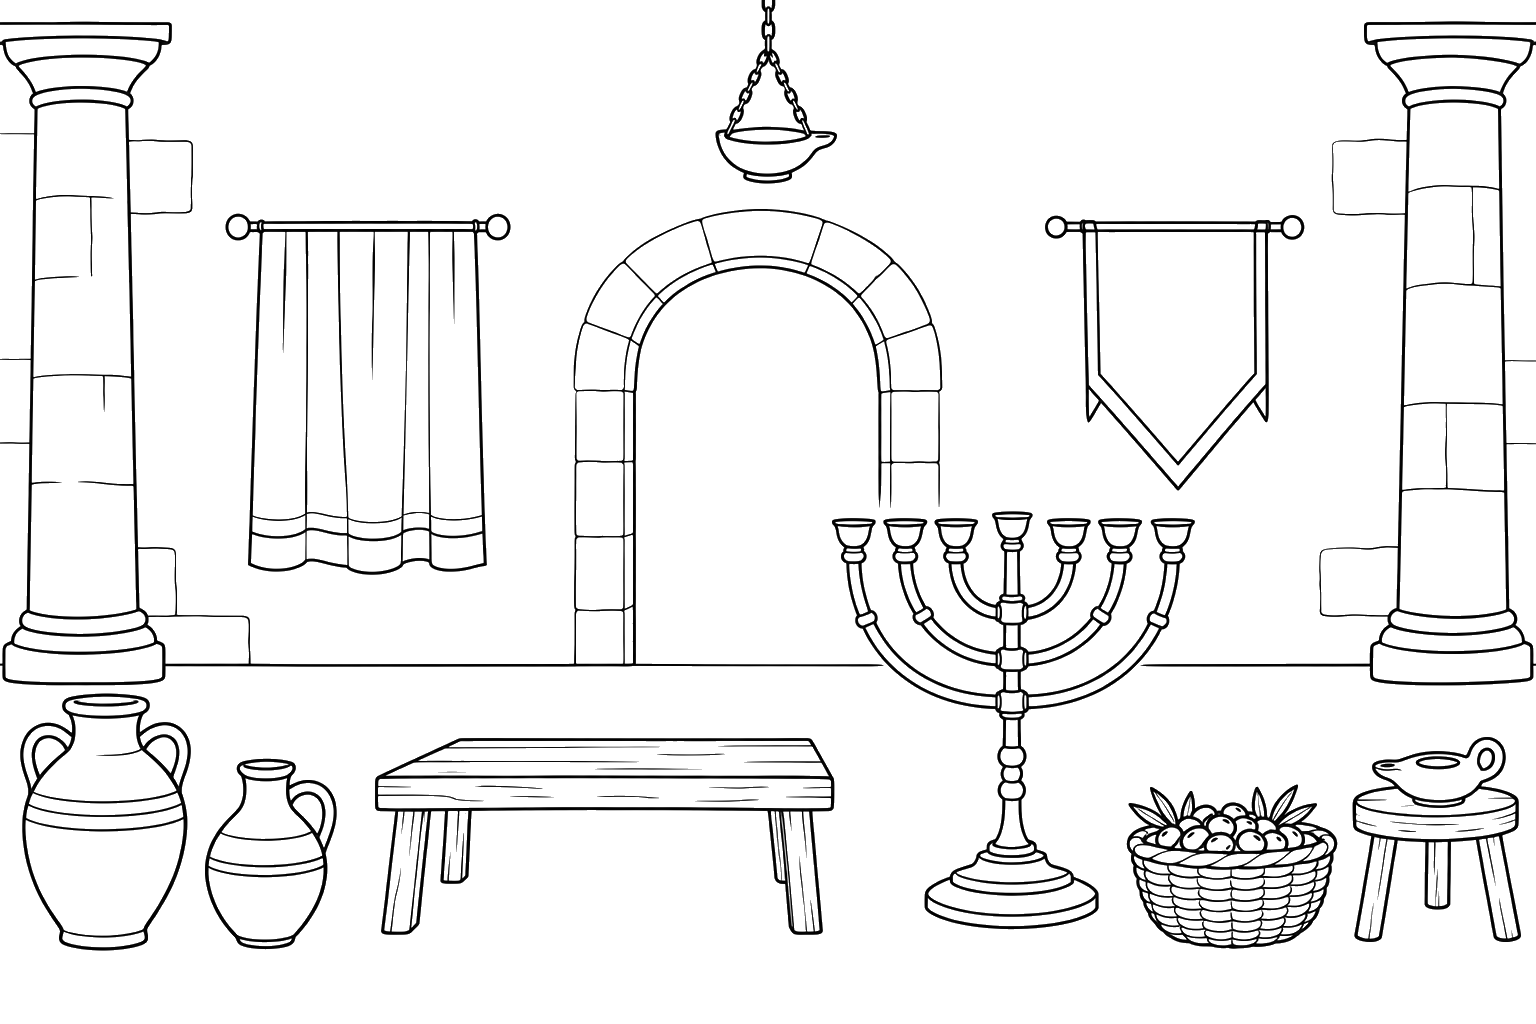
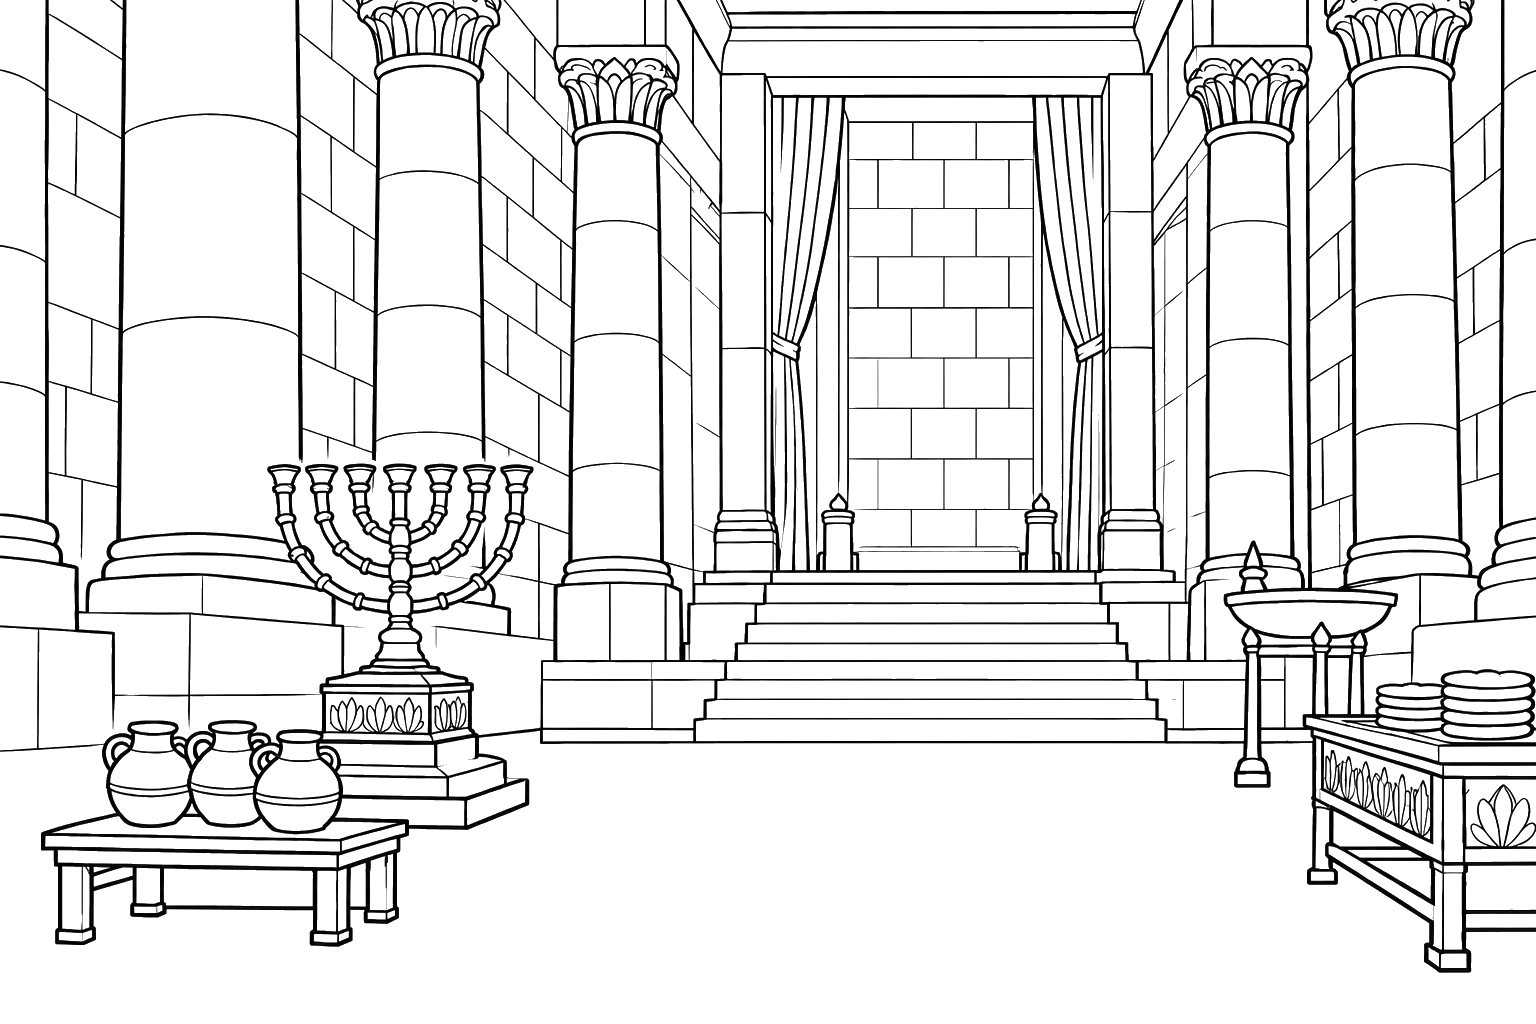
hanukkah-8-nights: p15 com imagens do Danilo (5 diferencas), gabarito atualizado

Changed region(s): [[0.0, 0.0, 1.0, 0.9688]]

diff --git a/books/hanukkah-8-nights/legacy/scripts/erros_noite2_v3.py b/books/hanukkah-8-nights/legacy/scripts/erros_noite2_v3.py
@@ -27,7 +27,7 @@ PZ = ROOT / "inputs" / "puzzle-assets"
 Y0, Y1 = 0, 1024  # cena inteira 3:2 (1536 x 1024)
 
 # cena-base de cada jogo (PNG 1536x1024 gerado) e faixa 2:1 usada no livro
-BASES = {5: "s1_b.png", 7: "s2_user_antes.png"}
+BASES = {5: "s1_user_antes.png", 7: "s2_user_antes.png"}
 SEED = {5: 3, 7: 5}
 
 
@@ -68,6 +68,15 @@ def provisional(n, base):
 
 
 def regioes(antes, depois, n):
+    """Tenta agrupar com raios decrescentes até achar exatamente n regiões."""
+    for dil in (14, 12, 10, 8, 6, 4):
+        d, boxes = _regioes(antes, depois, dil)
+        if len(boxes) == n:
+            break
+    return d, boxes
+
+
+def _regioes(antes, depois, dil):
     """Diferenças = traço escuro de uma imagem sem par escuro na outra a até 3 px (ignora o deslocamento de 1-2 px
     de imagens regeneradas). Agrupa por proximidade (14 px), descarta ruído (< 40 px de tinta) e funde caixas
     quase contidas uma na outra (partes do mesmo objeto)."""
@@ -76,7 +85,7 @@ def regioes(antes, depois, n):
     da = a & ~ndimage.binary_dilation(b, iterations=3)
     db = b & ~ndimage.binary_dilation(a, iterations=3)
     d = da | db
-    lab, _ = ndimage.label(ndimage.binary_dilation(d, iterations=14))
+    lab, _ = ndimage.label(ndimage.binary_dilation(d, iterations=dil))
     boxes = []
     for i, sl in enumerate(ndimage.find_objects(lab), 1):
         m = d & (lab == i)
@@ -113,8 +122,18 @@ def gabarito(antes, boxes, caminho, n):
         f = ImageFont.truetype("arialbd.ttf", 76)
     except OSError:
         f = ImageFont.load_default()
-    for i, (x, y, w, h) in enumerate(boxes, 1):
-        cx, cy, r = x + w / 2, y + h / 2, 62
+    r = 62
+    pts = [[min(max(x + w / 2, r + 4), img.width - r - 4), min(max(y + h / 2, r + 4), img.height - r - 4)] for x, y, w, h in boxes]
+    for _ in range(40):  # afasta bolas que se sobrepõem
+        for i in range(len(pts)):
+            for j in range(i + 1, len(pts)):
+                dx, dy = pts[j][0] - pts[i][0], pts[j][1] - pts[i][1]
+                dist = (dx * dx + dy * dy) ** 0.5 or 1.0
+                if dist < 2 * r + 8:
+                    k = (2 * r + 8 - dist) / 2 / dist
+                    pts[i][0] -= dx * k; pts[i][1] -= dy * k
+                    pts[j][0] += dx * k; pts[j][1] += dy * k
+    for i, (cx, cy) in enumerate(pts, 1):
         cx = min(max(cx, r + 4), img.width - r - 4)
         cy = min(max(cy, r + 4), img.height - r - 4)
         d.ellipse([cx - r, cy - r, cx + r, cy + r], fill=(105, 105, 105))

diff --git a/books/hanukkah-8-nights/notes.md b/books/hanukkah-8-nights/notes.md
@@ -71,4 +71,4 @@ Texto de todas as noites, front matter, mini-guia, cartão de bênçãos e back 
 - Layout do key: `theme.typ` `ak-maze` ganhou `w:` (retrocompatível); N2 (grade 14x14 em coluna de 3.8in), N8 (15x15 em 3.8in), N6 (cruzadas em 3.2in) para letras >= 9pt; a lista across/down do N6 cai no topo da p81.
 
 # Revisão pedida pelo Danilo (2026-10-08): p15, 18, 23, 24, 26, 32, 36, 45, 57, 59, 63
-Ver decisões 67 a 71 em `legacy/docs/relatorio-decisoes.md`. Scripts novos em `legacy/scripts/`: `erros_noite2_v3.py`, `sudoku_formas_v3.py`, `jarro_diferente_v3.py`, `hanukkiah_noites_v3.py`. Assets `_v3` em `inputs/puzzle-assets/` e `hk_*.png` em `inputs/illustrations/`. **Pendente:** o Danilo apaga os objetos no Canva (arquivos em `Para o Canva (jogo dos erros)` na pasta do livro no OneDrive) e devolve `noite2_erros{5,7}_depois_v3.png` com o mesmo tamanho (1536x1024); depois rodar `python legacy/scripts/erros_noite2_v3.py` e `./st build`. Enquanto isso o livro usa o depois provisório automático. Reconferir o answer key (N2 mostra caixas numeradas) e a paridade (82 págs; template do dreidel p43 e coupon p61 continuam ímpares, versos p44 e p62).
+Ver decisões 67 a 71 em `legacy/docs/relatorio-decisoes.md`. Scripts novos em `legacy/scripts/`: `erros_noite2_v3.py`, `sudoku_formas_v3.py`, `jarro_diferente_v3.py`, `hanukkiah_noites_v3.py`. Assets `_v3` em `inputs/puzzle-assets/` e `hk_*.png` em `inputs/illustrations/`. **Resolvido em 08/10/2026 (imagens do Danilo em `s1_user_antes.png`/`s2_user_antes.png` e `noite2_erros{5,7}_depois_v3.png`).** Antes: o Danilo apagava os objetos no Canva (arquivos em `Para o Canva (jogo dos erros)` na pasta do livro no OneDrive) e devolve `noite2_erros{5,7}_depois_v3.png` com o mesmo tamanho (1536x1024); depois rodar `python legacy/scripts/erros_noite2_v3.py` e `./st build`. Enquanto isso o livro usa o depois provisório automático. Reconferir o answer key (N2 mostra caixas numeradas) e a paridade (82 págs; template do dreidel p43 e coupon p61 continuam ímpares, versos p44 e p62).

diff --git a/books/hanukkah-8-nights/legacy/docs/relatorio-decisoes.md b/books/hanukkah-8-nights/legacy/docs/relatorio-decisoes.md
@@ -331,3 +331,6 @@ O Danilo reprovou as cenas com objetos soltos sem sentido. Duas cenas novas, cad
 
 ## 74. P18 com as imagens do Danilo (olival), 7 diferenças (08/10/2026)
 O Danilo gerou e editou as duas imagens da p18 (olival perto de Jerusalém, Templo ao fundo, à distância; "antes" `_raw/erros/s2_user_antes.png`, "depois" `noite2_erros7_depois_v3.png`). Conferidas por código (traço escuro sem par a até 3 px): 7 diferenças, todas coisas retiradas do "depois": 1 oliveira pequena (esquerda, fundo), 2 galhinho com azeitonas no chão, 3 ponta do pano da cabeça do homem, 4 arbusto, 5 cipreste, 6 jarro da direita, 7 galho no canto superior direito. O gabarito (p. do answer key) agora usa a imagem original com bola cinza e número branco, sem destacar a área (também na p15). Texto da p18: "olive grove pictures" (oliveiras não ficavam dentro do pátio do Templo).
+
+## 75. P15 com as imagens do Danilo (salão do Templo), 5 diferenças (08/10/2026)
+Imagens geradas e editadas pelo Danilo (antes `_raw/erros/s1_user_antes.png`, depois `noite2_erros5_depois_v3.png`). Diferenças achadas e conferidas por código: 1 terceiro jarro da mesa, 2 ornamento (flores) da base da menorá, 3 castiçal pequeno à esquerda da cortina, 4 ponta/chama da bacia no suporte, 5 pilha de pães da mesa da direita. Gabarito com bola cinza e número branco; as bolas se afastam quando se sobrepõem. Livro reconstruído: 82 páginas, check do PDF sem críticos.

diff --git a/books/hanukkah-8-nights/questions.md b/books/hanukkah-8-nights/questions.md
@@ -123,6 +123,6 @@ O enunciado impresso diz "share equally with 4 cousins (you get a share too)", o
 - [x] [ASSUMIDA] (copyright, receita, piadas, 07/10/2026) Pedidos do Danilo aplicados: copyright centralizado, passo 1 da receita sem YOUR JOB (adulto ralha), piadas variadas (decisão 61), série 42 refeita, ligar os pontos em _v2.
 
 ## Revisão do Danilo (2026-10-08)
-- [ ] [BLOQUEANTE para fechar o livro] (unit:n2, p15 e p18) Jogo dos erros: o Danilo apaga 5 / 7 objetos das cenas no Canva e devolve `noite2_erros{5,7}_depois_v3.png` (1536x1024). Até lá o PDF tem o depois provisório automático.
+- [x] [RESOLVIDA 08/10/2026: imagens do Danilo, 5 e 7 diferenças conferidas por código] (unit:n2, p15 e p18) Jogo dos erros: o Danilo apaga 5 / 7 objetos das cenas no Canva e devolve `noite2_erros{5,7}_depois_v3.png` (1536x1024). Até lá o PDF tem o depois provisório automático.
 - [x] [ASSUMIDA] (unit:n3, p23 e p26) Sudokus com formas simples (círculo, quadrado, triângulo, estrela, coração, +) no lugar dos símbolos temáticos; perde-se o tema Hanucá nos símbolos, mas a criança consegue desenhar. Listing e A+ ajustados.
 - [ ] [ASSUMIDA] (unit:n4) A página "Draw the Candles" (p33) ainda usa as velas desenhadas em código; se o Danilo quiser o mesmo traço das novas hanukkiahs, `hk_empty.png` serve de base (precisa copo vazio também no shamash).
